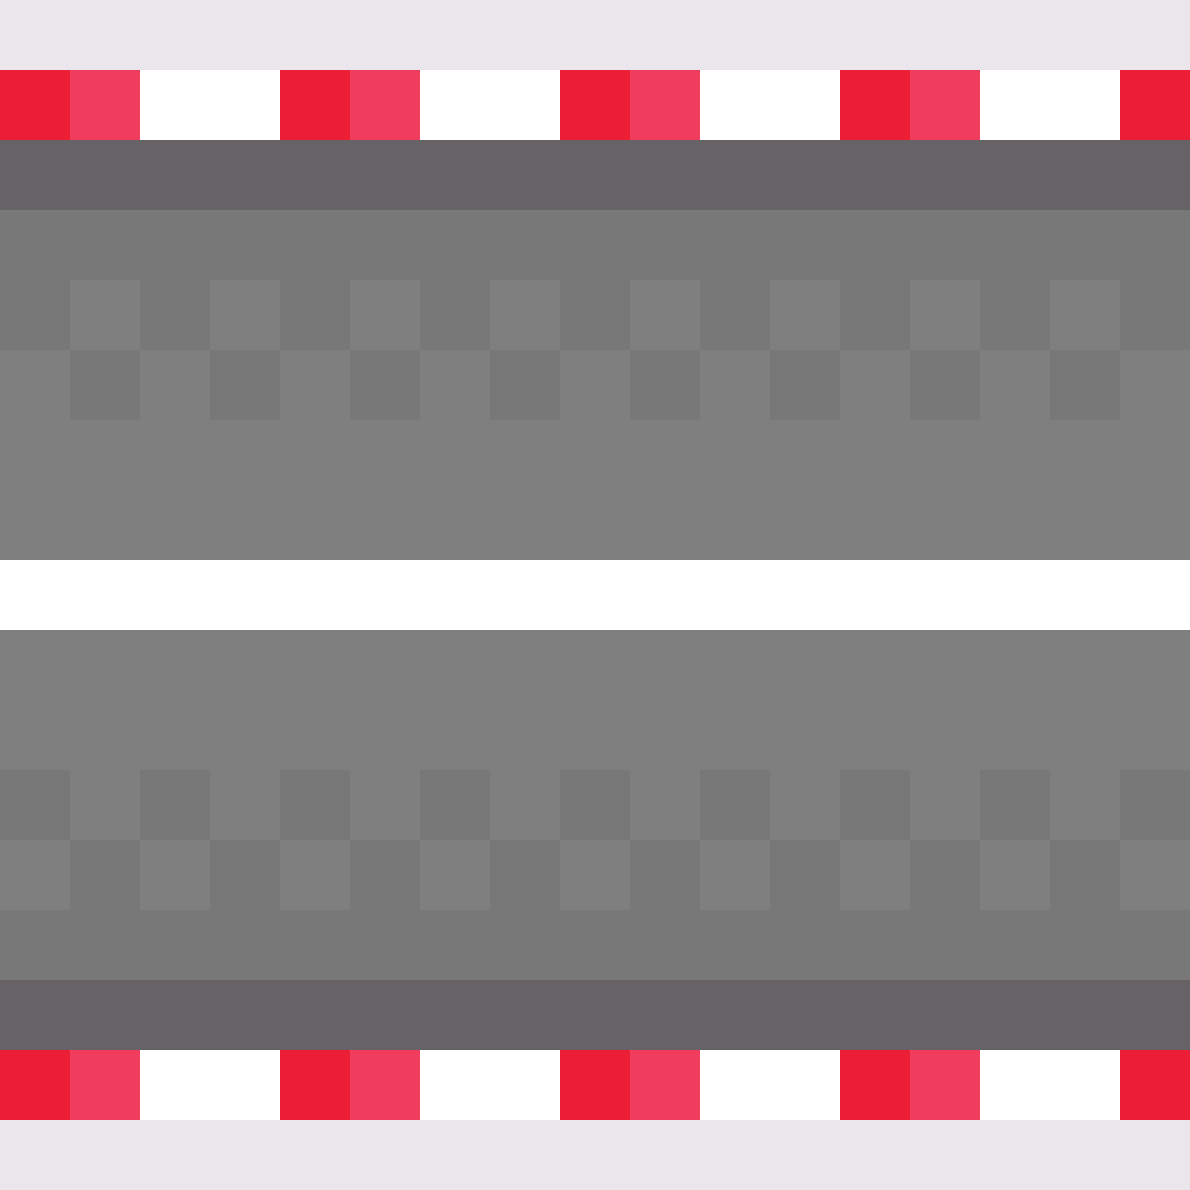
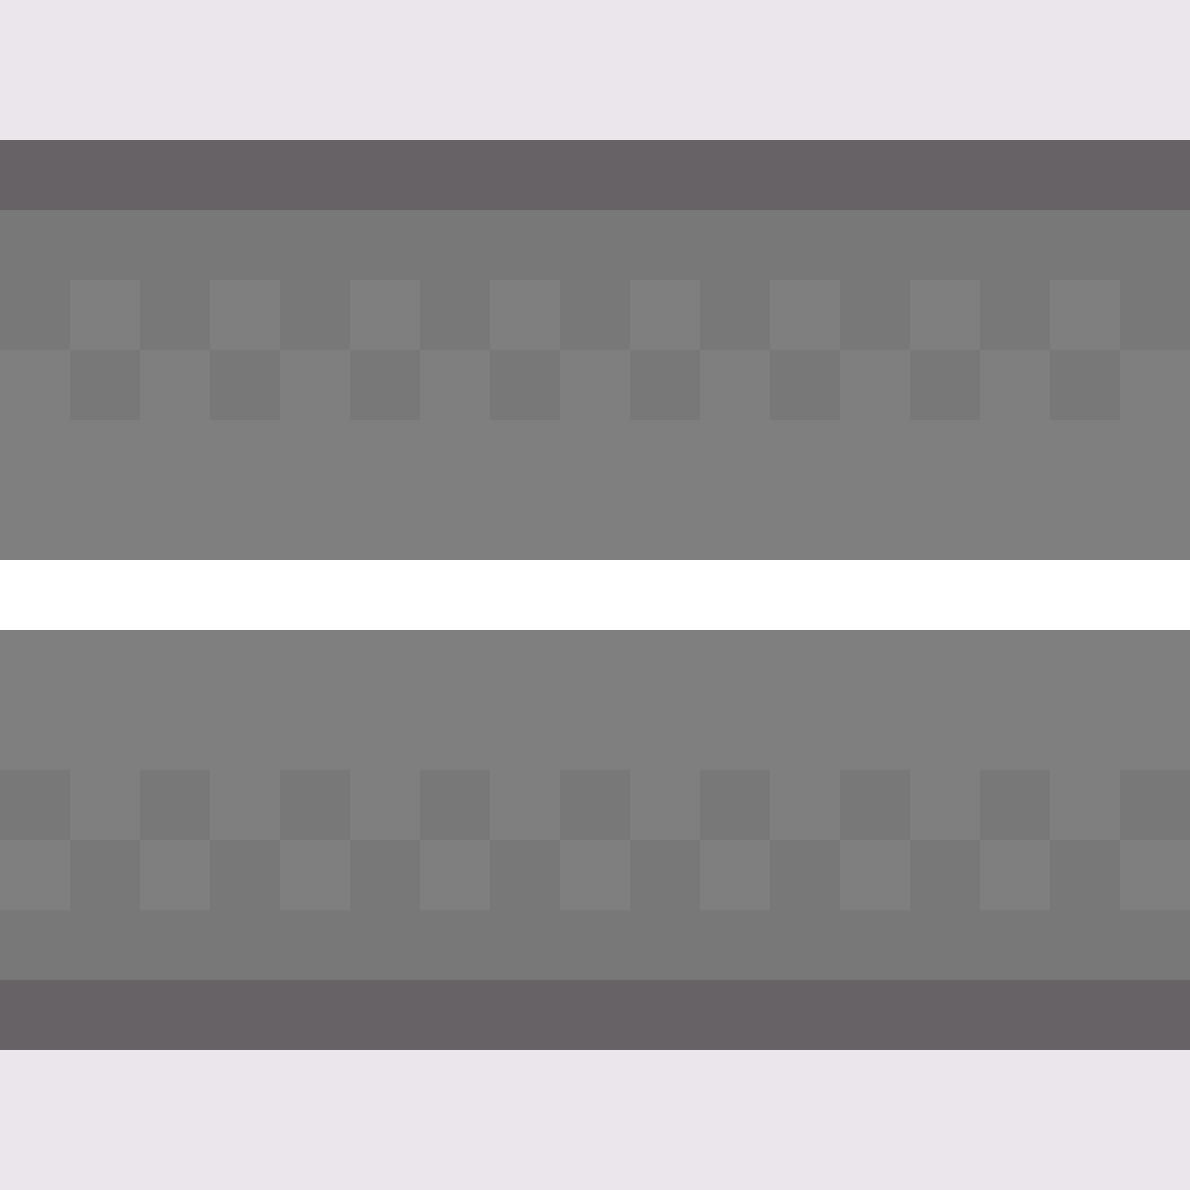
Se pude cambiar la pista desde la barra de configuraciones y se puede colisionar contra esta barra. Cambios en imagenes de pista.

Changed region(s): [[0.0, 0.8706, 1.0, 0.9639], [0.0, 0.0311, 1.0, 0.1244]]

diff --git a/Proyecto/src/proyecto/Juego.java b/Proyecto/src/proyecto/Juego.java
@@ -30,9 +30,11 @@ public class Juego extends JPanel implements KeyListener, MouseListener, MouseMo
     private Image trail_img;
     private int numPistaElegida;
     private ArrayList<Rectangle> colliders;
+    private Toolkit t;
     // Barras de configuración
     BarraDeAjuste barraMaxVelocidad;
     BarraDeAjuste barraAceleracion;
+    BarraDeAjuste barraTipoPista;
     //BarraDeAjuste barraRoce = new BarraDeAjuste(new Rectangle(1000, 500, 300, 50), "Roce");
     // Teclas  - True equivale a que la tecla esta siendo presionada
     private boolean wDown = false;
@@ -53,7 +55,7 @@ public class Juego extends JPanel implements KeyListener, MouseListener, MouseMo
         pista2= new Pista(0, 0, 78);
         pista3= new Pista(0, 0, 78);
         auto = new Auto(rect);
-        
+        t = Toolkit.getDefaultToolkit(); 
         this.numPistaElegida = numPistaElegida;
         
         switch(numPistaElegida){
@@ -71,8 +73,9 @@ public class Juego extends JPanel implements KeyListener, MouseListener, MouseMo
                 break;  
         }
         // barras de ajuste:
-        barraMaxVelocidad = new BarraDeAjuste(new Rectangle(1070, 50, 245, 40), "Velocidad", auto.getLimiteDeVelocidad());
-        barraAceleracion = new BarraDeAjuste(new Rectangle(1070, 150, 245, 40), "Aceleración", auto.getLimiteDeAccel());
+        barraMaxVelocidad = new BarraDeAjuste(new Rectangle(1065, 50, 245, 40), "Velocidad", auto.getLimiteDeVelocidad(), 12);
+        barraAceleracion = new BarraDeAjuste(new Rectangle(1065, 150, 245, 40), "Aceleración", auto.getLimiteDeAccel(), 12);
+        barraTipoPista = new BarraDeAjuste(new Rectangle(1065, 250, 245, 40), "Tipo Pista", numPistaElegida, 4);
         auto.setLimiteDeVelocidad(barraMaxVelocidad.getVariableAjustada());
         auto.setLimiteDeAccel(barraAceleracion.getVariableAjustada());
         //ASIGNACIÓN DE IMAGENES
@@ -82,7 +85,7 @@ public class Juego extends JPanel implements KeyListener, MouseListener, MouseMo
         Timer timer = new Timer(15, new ActionListener(){      
         public void actionPerformed(ActionEvent e)
             {
-                for(Rectangle collider: pistaElegida.getColliders()){
+                for(Rectangle collider: pistaElegida.getColliders(numPistaElegida)){
                     if(auto.getRect().getBounds2D().intersects(collider)){
                         auto.colisiona();
                         break;
@@ -101,13 +104,14 @@ public class Juego extends JPanel implements KeyListener, MouseListener, MouseMo
         boolean retroceso = true;       
         super.paint(g);
         this.setBackground(new Color(130, 235, 40));
+        g.setColor(new Color(40, 40, 40));
+        g.fillRect(990, 0, 400, 755);
+        g.setColor(Color.WHITE);
+        g.fillRect(990, 0, 10, 800);
         pistaElegida.paint(g, numPistaElegida, this);
         barraMaxVelocidad.paint(g);
         barraAceleracion.paint(g);
-        /* por implementar
-        barraAceleracion.paint(g);
-        barraRoce.paint(g);
-        */
+        barraTipoPista.paint(g);
         auto.paint(g);
         
         // ToDo: mover parte de este codigo dentro del timer del constructor
@@ -211,8 +215,27 @@ public class Juego extends JPanel implements KeyListener, MouseListener, MouseMo
         int[] mouseCords = {e.getX(), e.getY()};
         barraAceleracion.actualizar(mouseCords, true);
         barraMaxVelocidad.actualizar(mouseCords, true);
+        barraTipoPista.actualizar(mouseCords, true);
         auto.setLimiteDeVelocidad(barraMaxVelocidad.getVariableAjustada());
         auto.setLimiteDeAccel(barraAceleracion.getVariableAjustada());
+        numPistaElegida = barraTipoPista.numBarrasEncendidas();
+                switch(numPistaElegida){
+            case 0:
+                pistaElegida = pista0;
+                break;
+            case 1:
+                pistaElegida = pista0;
+                break;
+            case 2:
+                pistaElegida = pista1;
+                break;
+            case 3:
+                pistaElegida = pista2;
+                break;  
+            case 4:
+                pistaElegida = pista3;
+                break;  
+        }
         
         
     }
@@ -253,6 +276,7 @@ public class Juego extends JPanel implements KeyListener, MouseListener, MouseMo
         int[] mouseCords = {e.getX(), e.getY()};
         barraAceleracion.actualizar(mouseCords, false);
         barraMaxVelocidad.actualizar(mouseCords, false);
+        barraTipoPista.actualizar(mouseCords, false);
         auto.setLimiteDeVelocidad(barraMaxVelocidad.getVariableAjustada());
         auto.setLimiteDeAccel(barraAceleracion.getVariableAjustada());
     }

diff --git a/Proyecto/src/proyecto/BarraDeAjuste.java b/Proyecto/src/proyecto/BarraDeAjuste.java
@@ -13,14 +13,14 @@ public class BarraDeAjuste {
     Polygon triangulo2 = new Polygon();
     boolean triangulo1Clicked = false;
     boolean triangulo2Clicked = false;
-    private int numDeBarritas = 12;
-    private int anchoBarritas = 18;
+    private int numDeBarritas;
+    private int anchoBarritas;
     private int bordesX = 5;
     private int bordesY = 5;   
-    private int espacioEntreBarras;   
+    private int espacioEntreBarras = 1;   
     // Ajustes
     private String nombreDelAjuste;
-    private int barritasEncendidas = numDeBarritas/2; // barra parte con la mitad "encendida"
+    private int barritasEncendidas; // barra parte con la mitad "encendida"
     private float variableAjustada;
     // Colores!
     // degrade de las barritas
@@ -34,14 +34,17 @@ public class BarraDeAjuste {
      * @param nombreDelAjuste nombre que tendrá la configuracion
      * @param variableAjustada la variable que será ajustada por la barra
      */
-    public BarraDeAjuste(Rectangle barraRect, String nombreDelAjuste, float variableAjustada){
-        
+    public BarraDeAjuste(Rectangle barraRect, String nombreDelAjuste, float variableAjustada, int numBarras){
+        numDeBarritas = numBarras;
+        barritasEncendidas = numDeBarritas/2;
         assert numDeBarritas <= 12: "Numero de Barritas en barra '" +  nombreDelAjuste + " excede el límite (12)";
         this.barraRect = barraRect;
         this.nombreDelAjuste = nombreDelAjuste;
         this.variableAjustada = variableAjustada;
+        anchoBarritas = (barraRect.width - espacioEntreBarras*numBarras - bordesX*2)/numBarras;
         rectBarritas = new Rectangle(barraRect.x+bordesX*2, barraRect.y+bordesY, anchoBarritas, barraRect.height-bordesY*4);
-        espacioEntreBarras = (barraRect.width - 2*bordesX - numDeBarritas*anchoBarritas)/numDeBarritas;
+        //espacioEntreBarras = (barraRect.width - 2*bordesX - numDeBarritas*anchoBarritas)/numDeBarritas;
+        System.out.println(espacioEntreBarras);
         //System.out.println(espacioEntreBarras);
         // triangulos dibujados a los lados
         // izquierdo
@@ -58,6 +61,9 @@ public class BarraDeAjuste {
      * 
      * @return la variable ajustada segun lo 'llena' que esté la barra
      */
+    public int numBarrasEncendidas(){
+        return barritasEncendidas;
+    }
     public float getVariableAjustada(){
         float ratio = ((float)barritasEncendidas/(float)numDeBarritas);
         return (float)variableAjustada*ratio;
@@ -80,7 +86,7 @@ public class BarraDeAjuste {
      */
     public void actualizar(int[] mouseCords, boolean clicking){
         Rectangle mouse = new Rectangle(mouseCords[0], mouseCords[1], 1, 1);
-        // revisamos si hay colision con triangulos, colision y click altera
+        // revisamos si hay colision con triangulos. Colision y click altera
         // las barras, solo colision crea un borde blanco alrededor de ellas
         if((mouseCords[0] <= triangulo1.getBounds2D().getMaxX()) && (mouseCords[1] <= triangulo1.getBounds2D().getMaxY() + triangulo1.getBounds().getHeight()/2) && (mouseCords[0] >= triangulo1.getBounds2D().getMaxX()- triangulo1.getBounds2D().getWidth()) && (mouseCords[1] > triangulo1.getBounds2D().getMaxY() -  triangulo1.getBounds2D().getHeight())){
             triangulo1Clicked=true;

diff --git a/Proyecto/src/proyecto/Pista.java b/Proyecto/src/proyecto/Pista.java
@@ -9,7 +9,7 @@ public class Pista{
     private FigurasPista p1;
     private ArrayList<FigurasPista> c1;
     private ArrayList<Rectangle> colliders;
-    private int ANCHO_CIRCUITO = 1370;
+    private int ANCHO_CIRCUITO = 960;
     private int LARGO_CIRCUITO = 700;
     public Pista(int x, int y, int ly){  
         int anchoBorde = 20; // qué tan gruesos son los colliders
@@ -29,12 +29,21 @@ public class Pista{
         // Límite lateral izquierdo de la pista
         colliders.add(new Rectangle(-anchoBorde-30, 0, anchoBorde, LARGO_CIRCUITO)); 
         // Límite lateral derecho de la pista
-        colliders.add(new Rectangle(ANCHO_CIRCUITO + anchoBorde + 30, 0, anchoBorde, LARGO_CIRCUITO)); 
+        colliders.add(new Rectangle(ANCHO_CIRCUITO, 0, anchoBorde, LARGO_CIRCUITO)); 
         
     }
     
-    public ArrayList<Rectangle> getColliders(){
+    
+    
+    public ArrayList<Rectangle> getColliders(int tipoPista){
+        ArrayList<Rectangle> collidersCurvas = new ArrayList();
+        collidersCurvas.addAll(colliders);
+        switch(tipoPista){
+            case 0:
+                
+        }
         return colliders;
+        
     }
     
     public void paint(Graphics g, int choice, JPanel panel){
